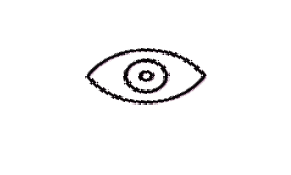
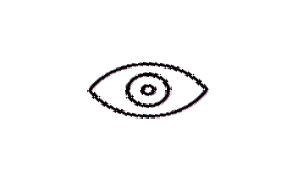
cho mắt nó mở

Changed region(s): [[0.2784, 0.2571, 0.7423, 0.6857]]

diff --git a/Airplace2025/frmDangNhap.Designer.cs b/Airplace2025/frmDangNhap.Designer.cs
@@ -31,6 +31,7 @@
             this.components = new System.ComponentModel.Container();
             this.guna2ContextMenuStrip1 = new Guna.UI2.WinForms.Guna2ContextMenuStrip();
             this.pnlLogin = new Guna.UI2.WinForms.Guna2ShadowPanel();
+            this.guna2ImageButton1 = new Guna.UI2.WinForms.Guna2ImageButton();
             this.label2 = new System.Windows.Forms.Label();
             this.label1 = new System.Windows.Forms.Label();
             this.guna2Button1 = new Guna.UI2.WinForms.Guna2Button();
@@ -38,7 +39,6 @@
             this.txtUserName = new Guna.UI2.WinForms.Guna2TextBox();
             this.guna2BorderlessForm1 = new Guna.UI2.WinForms.Guna2BorderlessForm(this.components);
             this.guna2ContextMenuStrip2 = new Guna.UI2.WinForms.Guna2ContextMenuStrip();
-            this.guna2ImageButton1 = new Guna.UI2.WinForms.Guna2ImageButton();
             this.guna2PictureBox1 = new Guna.UI2.WinForms.Guna2PictureBox();
             this.pnlLogin.SuspendLayout();
             ((System.ComponentModel.ISupportInitialize)(this.guna2PictureBox1)).BeginInit();
@@ -71,12 +71,28 @@
             this.pnlLogin.Cursor = System.Windows.Forms.Cursors.Hand;
             this.pnlLogin.FillColor = System.Drawing.Color.White;
             this.pnlLogin.Location = new System.Drawing.Point(348, 28);
-            this.pnlLogin.Margin = new System.Windows.Forms.Padding(2, 2, 2, 2);
+            this.pnlLogin.Margin = new System.Windows.Forms.Padding(2);
             this.pnlLogin.Name = "pnlLogin";
             this.pnlLogin.ShadowColor = System.Drawing.Color.Black;
             this.pnlLogin.Size = new System.Drawing.Size(283, 335);
             this.pnlLogin.TabIndex = 3;
             this.pnlLogin.Paint += new System.Windows.Forms.PaintEventHandler(this.guna2ShadowPanel1_Paint);
+            // 
+            // guna2ImageButton1
+            // 
+            this.guna2ImageButton1.BackColor = System.Drawing.Color.Pink;
+            this.guna2ImageButton1.CheckedState.ImageSize = new System.Drawing.Size(64, 64);
+            this.guna2ImageButton1.HoverState.ImageSize = new System.Drawing.Size(64, 64);
+            this.guna2ImageButton1.Image = global::Airplace2025.Properties.Resources.noun_closed_eye_5269901;
+            this.guna2ImageButton1.ImageOffset = new System.Drawing.Point(0, 0);
+            this.guna2ImageButton1.ImageRotate = 0F;
+            this.guna2ImageButton1.Location = new System.Drawing.Point(202, 174);
+            this.guna2ImageButton1.Margin = new System.Windows.Forms.Padding(2);
+            this.guna2ImageButton1.Name = "guna2ImageButton1";
+            this.guna2ImageButton1.PressedState.ImageSize = new System.Drawing.Size(64, 64);
+            this.guna2ImageButton1.Size = new System.Drawing.Size(33, 30);
+            this.guna2ImageButton1.TabIndex = 8;
+            this.guna2ImageButton1.Click += new System.EventHandler(this.guna2ImageButton1_Click_2);
             // 
             // label2
             // 
@@ -112,7 +128,7 @@
             this.guna2Button1.Font = new System.Drawing.Font("Segoe UI", 9F);
             this.guna2Button1.ForeColor = System.Drawing.Color.White;
             this.guna2Button1.Location = new System.Drawing.Point(43, 274);
-            this.guna2Button1.Margin = new System.Windows.Forms.Padding(2, 2, 2, 2);
+            this.guna2Button1.Margin = new System.Windows.Forms.Padding(2);
             this.guna2Button1.Name = "guna2Button1";
             this.guna2Button1.Size = new System.Drawing.Size(200, 36);
             this.guna2Button1.TabIndex = 5;
@@ -191,22 +207,6 @@
             this.guna2ContextMenuStrip2.RenderStyle.TextRenderingHint = System.Drawing.Text.TextRenderingHint.SystemDefault;
             this.guna2ContextMenuStrip2.Size = new System.Drawing.Size(61, 4);
             // 
-            // guna2ImageButton1
-            // 
-            this.guna2ImageButton1.BackColor = System.Drawing.Color.Pink;
-            this.guna2ImageButton1.CheckedState.ImageSize = new System.Drawing.Size(64, 64);
-            this.guna2ImageButton1.HoverState.ImageSize = new System.Drawing.Size(64, 64);
-            this.guna2ImageButton1.Image = global::Airplace2025.Properties.Resources.eye_removebg_preview;
-            this.guna2ImageButton1.ImageOffset = new System.Drawing.Point(0, 0);
-            this.guna2ImageButton1.ImageRotate = 0F;
-            this.guna2ImageButton1.Location = new System.Drawing.Point(202, 174);
-            this.guna2ImageButton1.Margin = new System.Windows.Forms.Padding(2);
-            this.guna2ImageButton1.Name = "guna2ImageButton1";
-            this.guna2ImageButton1.PressedState.ImageSize = new System.Drawing.Size(64, 64);
-            this.guna2ImageButton1.Size = new System.Drawing.Size(33, 30);
-            this.guna2ImageButton1.TabIndex = 8;
-            this.guna2ImageButton1.Click += new System.EventHandler(this.guna2ImageButton1_Click_2);
-            // 
             // guna2PictureBox1
             // 
             this.guna2PictureBox1.BorderRadius = 50;
@@ -229,7 +229,7 @@
             this.Controls.Add(this.pnlLogin);
             this.Controls.Add(this.guna2PictureBox1);
             this.FormBorderStyle = System.Windows.Forms.FormBorderStyle.None;
-            this.Margin = new System.Windows.Forms.Padding(2, 2, 2, 2);
+            this.Margin = new System.Windows.Forms.Padding(2);
             this.Name = "frmDangNhap";
             this.Load += new System.EventHandler(this.frmDangNhap_Load);
             this.pnlLogin.ResumeLayout(false);

diff --git a/Airplace2025/Properties/Resources.Designer.cs b/Airplace2025/Properties/Resources.Designer.cs
@@ -133,6 +133,16 @@ namespace Airplace2025.Properties {
         /// <summary>
         ///   Looks up a localized resource of type System.Drawing.Bitmap.
         /// </summary>
+        internal static System.Drawing.Bitmap noun_closed_eye_5269901 {
+            get {
+                object obj = ResourceManager.GetObject("noun-closed-eye-5269901", resourceCulture);
+                return ((System.Drawing.Bitmap)(obj));
+            }
+        }
+        
+        /// <summary>
+        ///   Looks up a localized resource of type System.Drawing.Bitmap.
+        /// </summary>
         internal static System.Drawing.Bitmap noun_entertainment_6988208 {
             get {
                 object obj = ResourceManager.GetObject("noun-entertainment-6988208", resourceCulture);

diff --git a/Airplace2025/frmDangNhap.cs b/Airplace2025/frmDangNhap.cs
@@ -94,7 +94,7 @@ namespace Airplace2025
                 txtPassword.PasswordChar = HIDE_CHAR;
 
                 // 3. Thay đổi biểu tượng con mắt thành trạng thái ĐÓNG
-                // guna2ImageButton1.Image = Properties.Resources.eye_closed_icon;
+                guna2ImageButton1.Image = Properties.Resources.noun_closed_eye_5269901;
             }
             else
             {
@@ -107,7 +107,7 @@ namespace Airplace2025
                 txtPassword.PasswordChar = '\0';
 
                 // 3. Thay đổi biểu tượng con mắt thành trạng thái MỞ
-                // guna2ImageButton1.Image = Properties.Resources.eye_open_icon;
+                guna2ImageButton1.Image = Properties.Resources.eye_removebg_preview;
             }
         }
 
